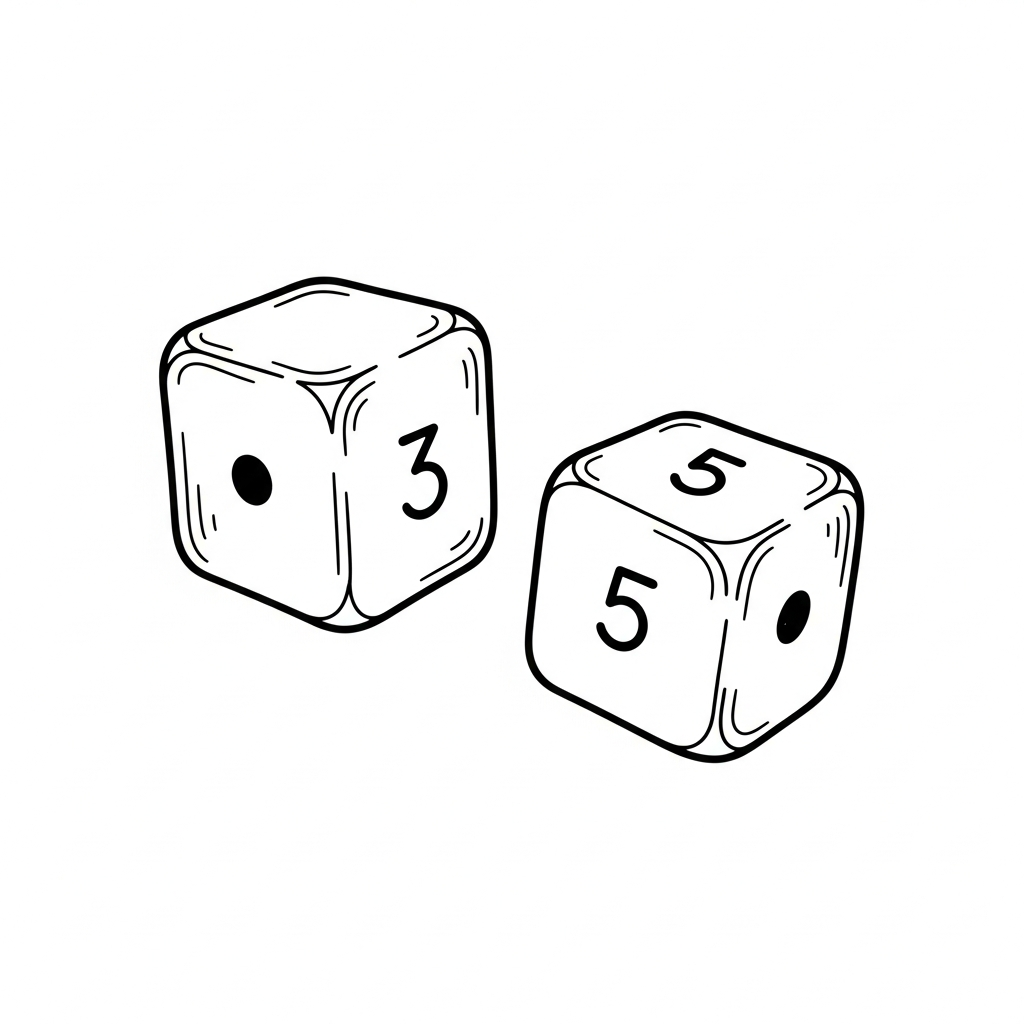
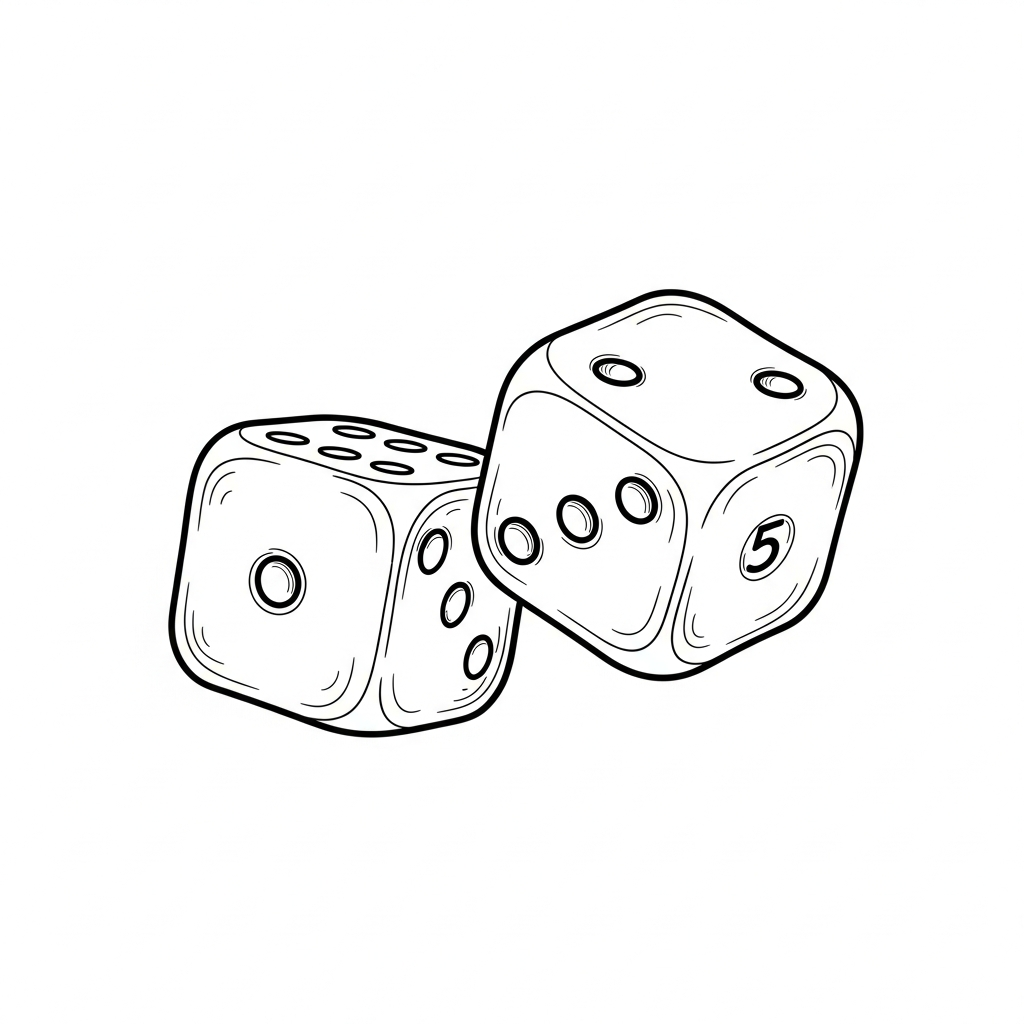
Update illustrations and refine animations for a more cohesive user experience
Introduce a dark plinth for the turntable, replace the dice icon with a hand-drawn sketch, and correctly position the sun's rays in the sunrise animation.

Replit-Commit-Author: Agent
Replit-Commit-Session-Id: 9003b42d-cc91-45d4-9bea-08cccc1eb26f
Replit-Commit-Checkpoint-Type: intermediate_checkpoint
Replit-Commit-Event-Id: fdf8521b-69ee-4a9a-9621-d2c91fb67c32
Replit-Commit-Screenshot-Url: https://storage.googleapis.com/screenshot-production-us-central1/2c66ae00-4dc8-48da-a526-15e2ce6c82ec/9003b42d-cc91-45d4-9bea-08cccc1eb26f/gwS68H3
Replit-Helium-Checkpoint-Created: true

Changed region(s): [[0.1562, 0.25, 0.8438, 0.75], [0.5625, 0.6875, 0.625, 0.7188]]

diff --git a/client/src/components/LandingPage.tsx b/client/src/components/LandingPage.tsx
@@ -2,7 +2,7 @@ import { useState, useEffect } from 'react';
 import { motion, AnimatePresence } from 'framer-motion';
 import { Memory } from '@shared/schema';
 
-import turntableImage from '@assets/generated_images/hand-drawn_turntable_top-down_sketch.png';
+import turntableImage from '@assets/generated_images/dark_plinth_turntable_sketch.png';
 import familyImage from '@assets/generated_images/hand-drawn_family_frame_sketch.png';
 import globeImage from '@assets/generated_images/hand-drawn_desk_globe_sketch.png';
 import mealImage from '@assets/generated_images/hand-drawn_meal_plate_sketch.png';
@@ -283,17 +283,16 @@ function SunriseAnimation() {
           />
           {/* Sun body */}
           <div className="w-10 h-10 rounded-full bg-foreground/40 -ml-5 -mt-5" />
-          {/* Sun rays - positioned around the sun disc */}
+          {/* Sun rays - starting outside the sun disc and extending outward */}
           {[0, 45, 90, 135, 180, 225, 270, 315].map((angle) => (
             <motion.div
               key={angle}
               className="absolute w-0.5 h-3 bg-foreground/30 rounded-full"
               style={{
                 left: '0',
-                top: '0',
+                top: '-34px',
                 marginLeft: '-1px',
-                marginTop: '-24px',
-                transformOrigin: '1px 24px',
+                transformOrigin: '1px 34px',
                 transform: `rotate(${angle}deg)`
               }}
               animate={{ opacity: [0.3, 0.6, 0.3] }}
@@ -541,16 +540,12 @@ export default function LandingPage({ memories, onCategorySelect, onRandomMemory
               className="aspect-square rounded-2xl bg-card border-2 border-border shadow-lg flex flex-col items-center justify-center gap-2 sm:gap-3 hover-elevate cursor-pointer disabled:opacity-50 disabled:cursor-not-allowed p-4"
               data-testid={`button-category-${category.id}`}
             >
-              {category.id === 'random' ? (
-                <DiceIcon className="w-16 h-16 sm:w-24 sm:h-24 md:w-28 md:h-28 items-center justify-center" />
-              ) : (
-                <img
-                  src={category.image}
-                  alt={category.label}
-                  className="w-16 h-16 sm:w-24 sm:h-24 md:w-28 md:h-28 object-contain"
-                  style={{ filter: 'grayscale(100%)' }}
-                />
-              )}
+              <img
+                src={category.image}
+                alt={category.label}
+                className="w-16 h-16 sm:w-24 sm:h-24 md:w-28 md:h-28 object-contain"
+                style={{ filter: 'grayscale(100%)' }}
+              />
               <span className="text-base sm:text-lg md:text-xl font-handwritten text-foreground/80">{category.label}</span>
             </motion.button>
           ))}

diff --git a/RELEASE_NOTES.md b/RELEASE_NOTES.md
@@ -9,13 +9,18 @@
 
 #### Music Category Icon
 - **New Turntable Icon**: Replaced jukebox with hand-drawn Rega Planar 6 turntable (top-down view)
+- **Dark Plinth**: Turntable base appears dark/almost black for authentic Rega styling
 - **Updated Loading Text**: Changed "Tuning the jukebox..." to "Dropping the needle..."
 - **Preserved Animation**: Bouncing musical notes animation unchanged
 
+#### Surprise Me Category Icon
+- **Hand-Drawn Dice**: Replaced programmatic dice with hand-drawn sketch matching other category icons
+- **Consistent Style**: All six category tiles now use the same hand-drawn illustration style
+
 #### Events Animation Fix
-- **Sun Ray Alignment**: Fixed sun rays to extend correctly from the sun disc centre
-- **Previously**: Rays were misaligned to the right of the sun circle
-- **Now**: Rays radiate symmetrically from the sun's centre
+- **Sun Ray Positioning**: Rays now start outside the sun disc and extend outward
+- **Previously**: Rays were positioned inside/overlapping the sun circle
+- **Now**: Rays radiate outward from just beyond the sun's edge
 
 ---
 
